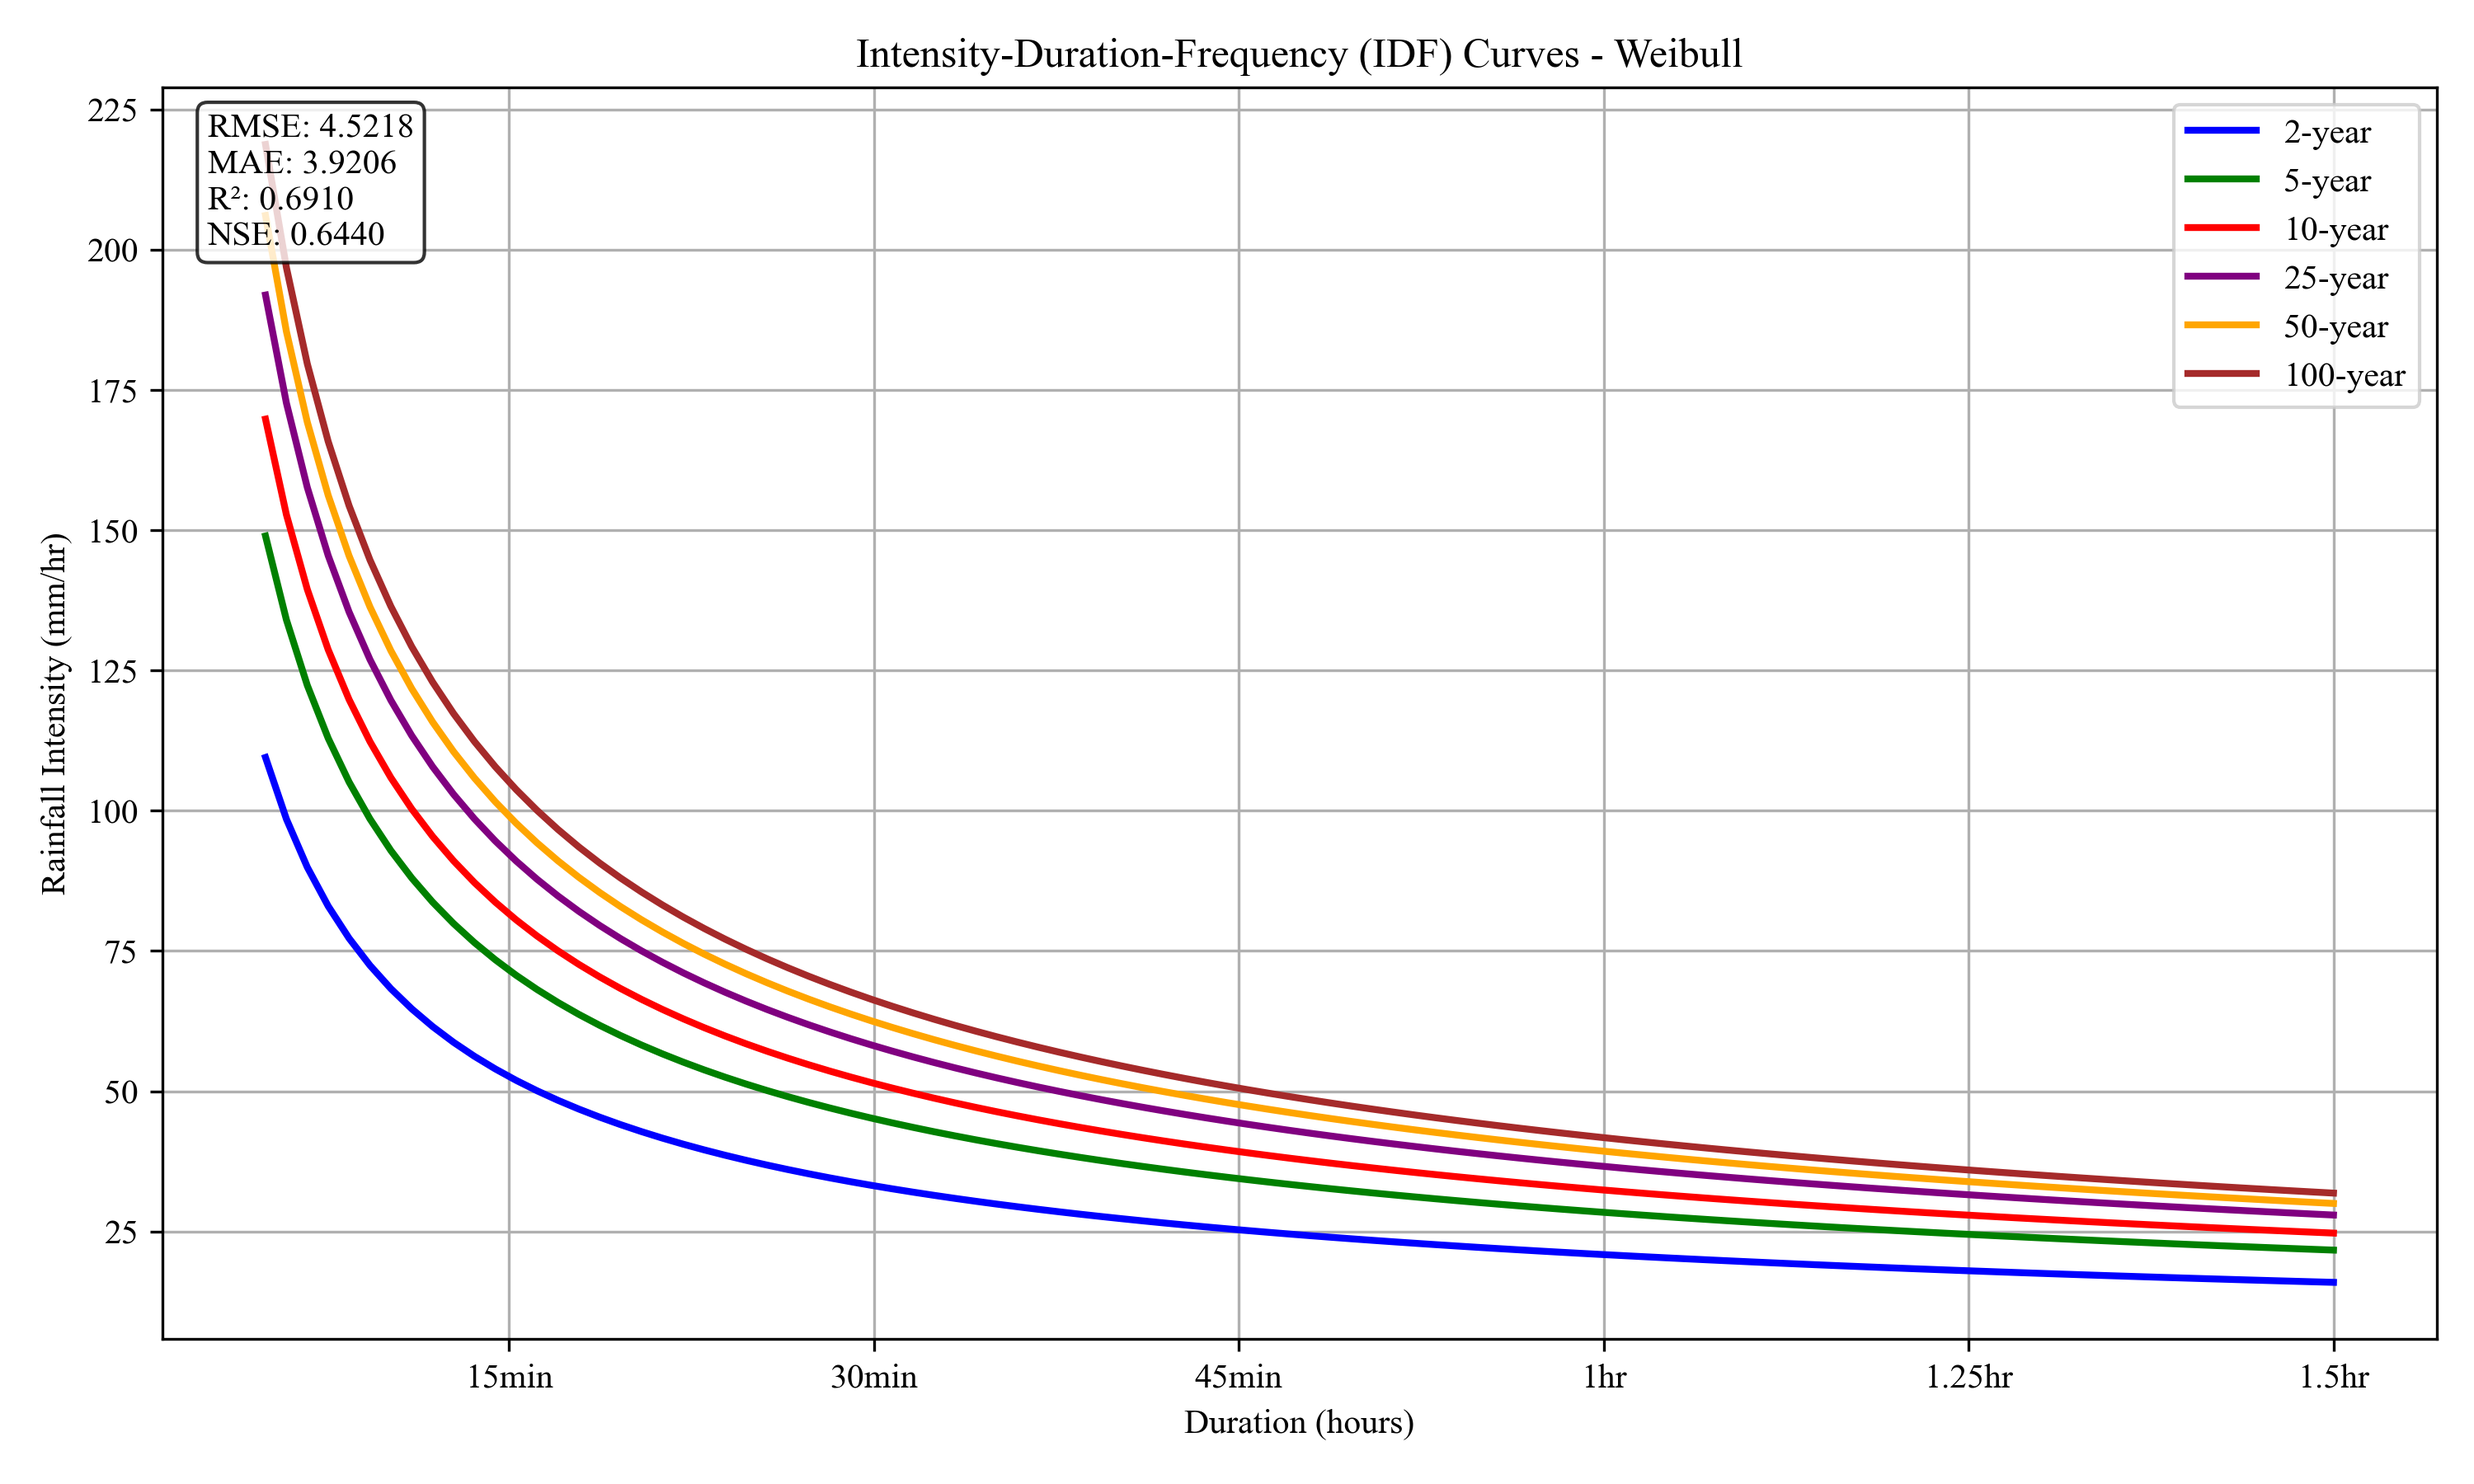
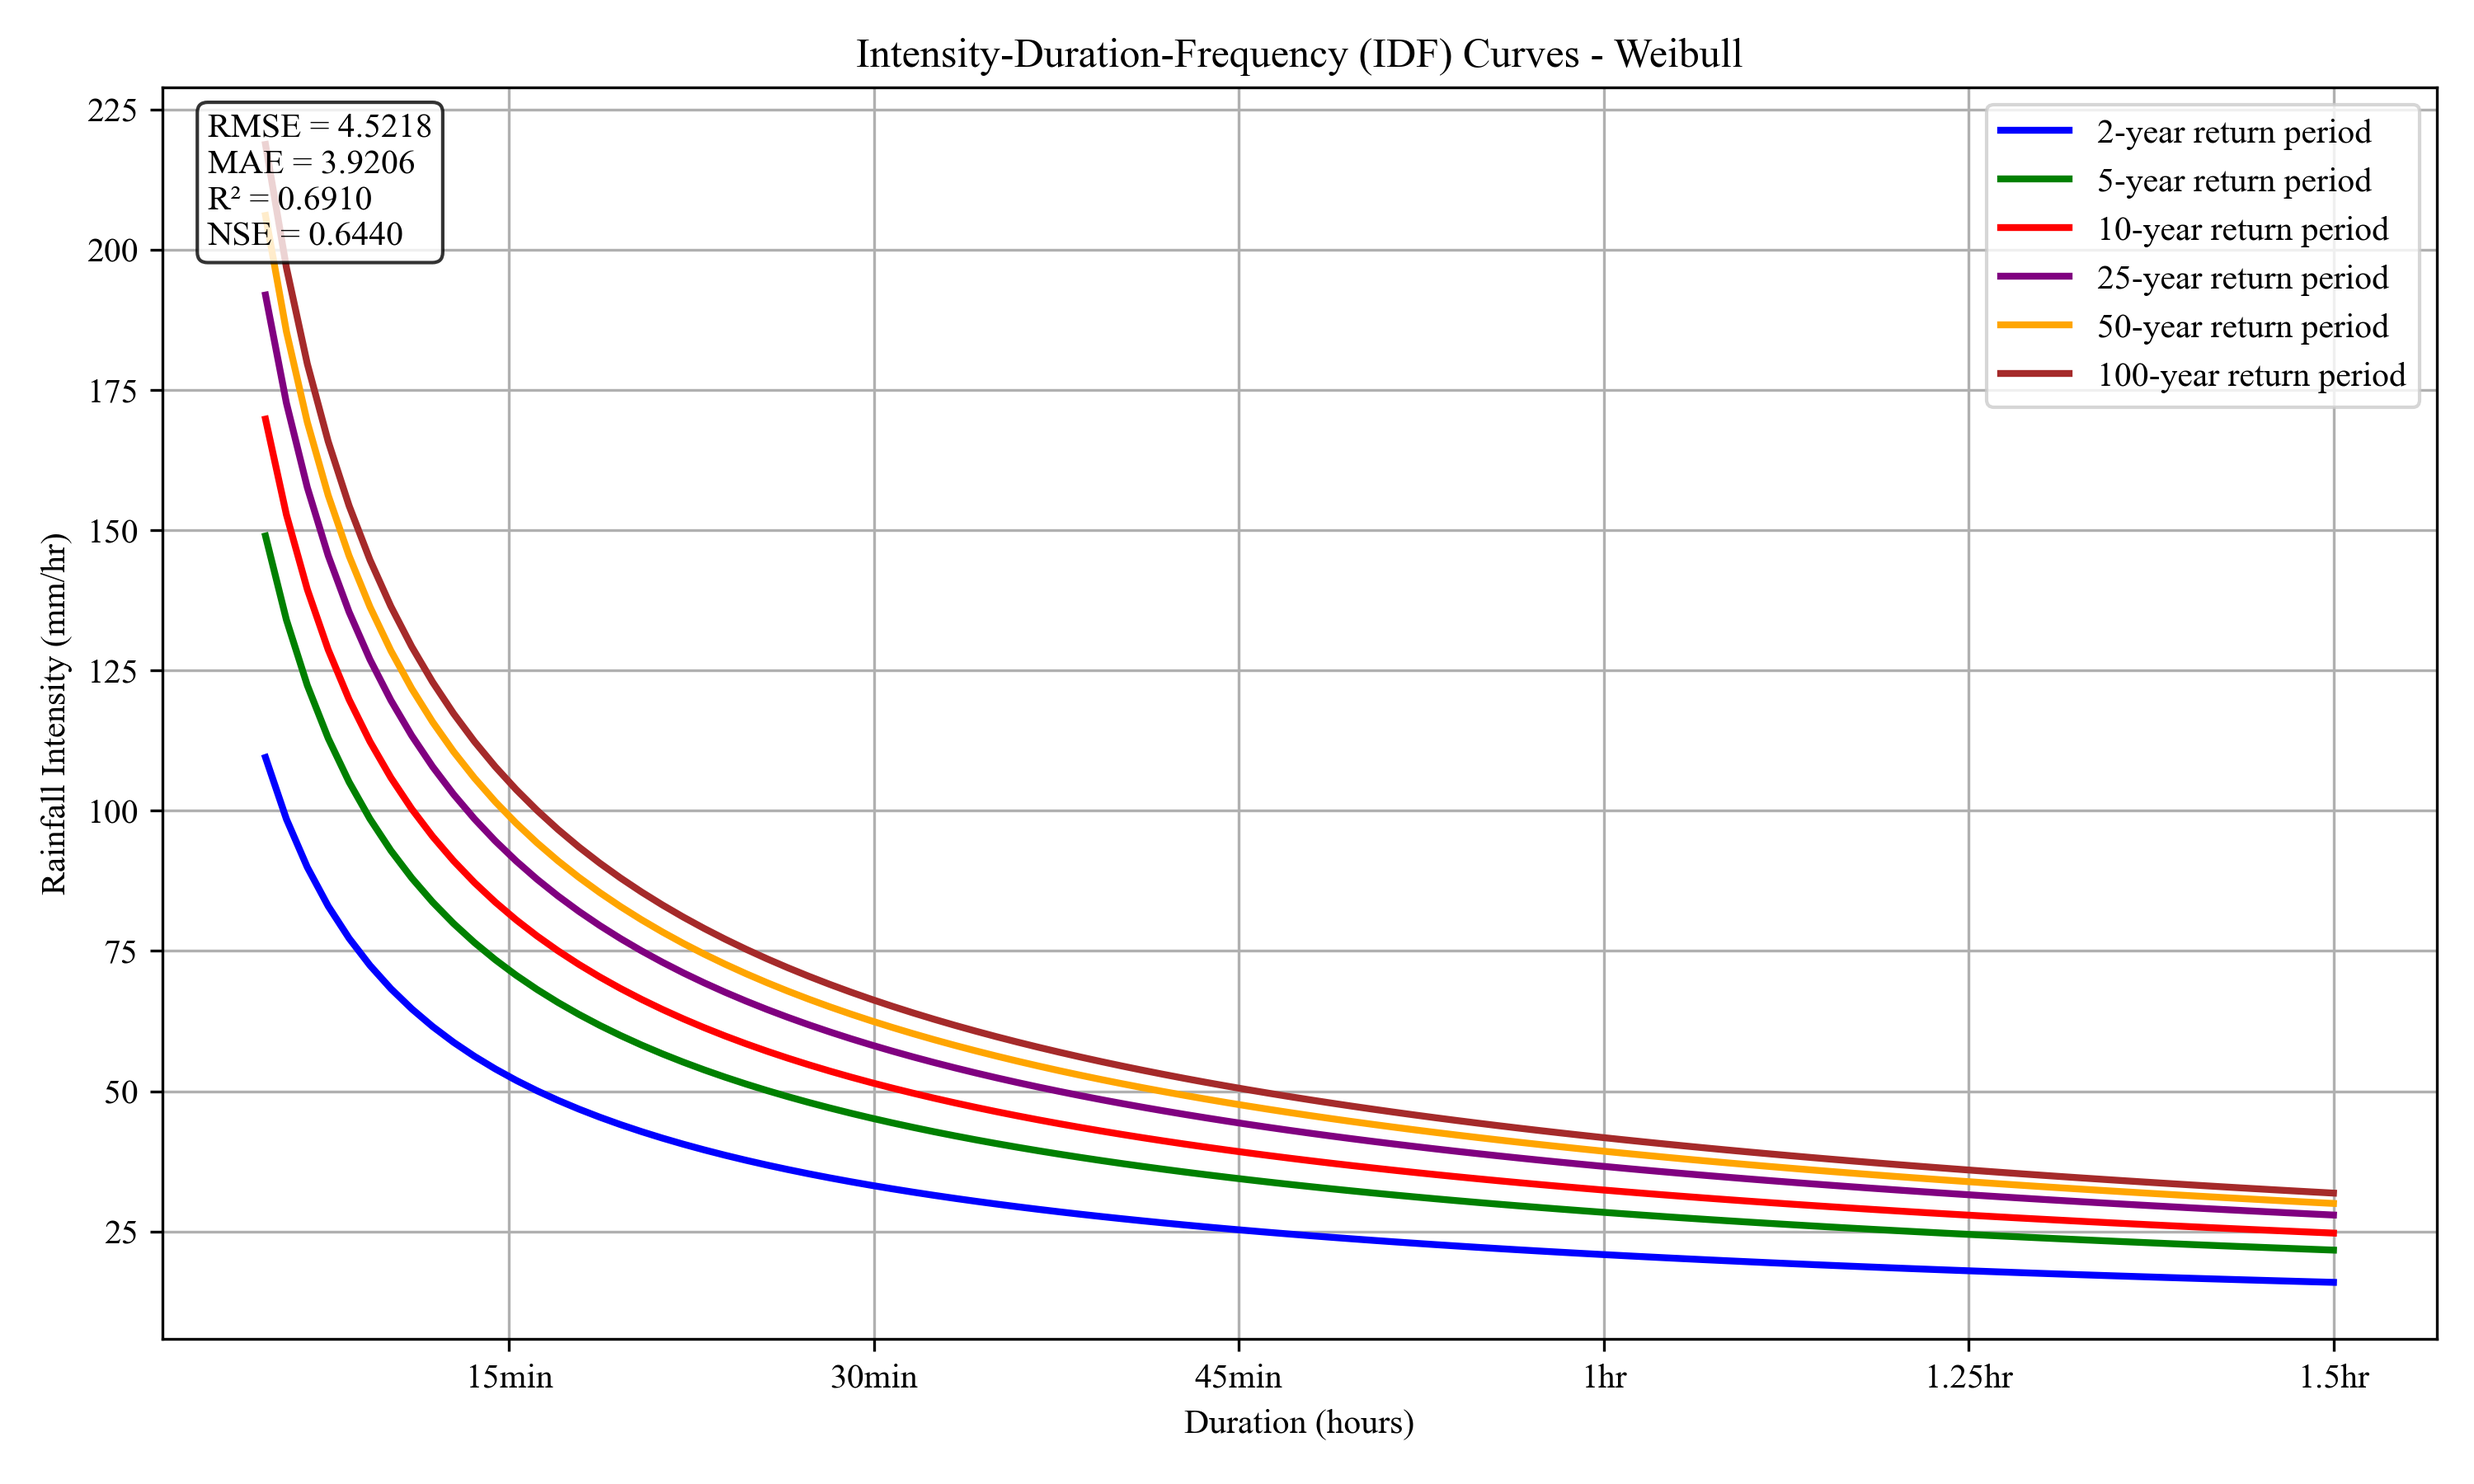
Update IDF curve titles and metrics formatting for clarity in plots

Changed region(s): [[0.806, 0.0622, 0.961, 0.28], [0.093, 0.0622, 0.186, 0.1867]]

diff --git a/statistical-methods/shared_postprocessing.py b/statistical-methods/shared_postprocessing.py
@@ -96,7 +96,7 @@ def _format_idf_plot(title, metrics=None):
 
     # Add metrics overlay if provided
     if metrics is not None:
-        metrics_text = f"RMSE: {metrics['RMSE']:.4f}\nMAE: {metrics['MAE']:.4f}\nR²: {metrics['R2']:.4f}\nNSE: {metrics['NSE']:.4f}"
+        metrics_text = f"RMSE = {metrics['RMSE']:.4f}\nMAE = {metrics['MAE']:.4f}\nR² = {metrics['R2']:.4f}\nNSE = {metrics['NSE']:.4f}"
         plt.text(
             0.02,
             0.98,
@@ -155,7 +155,7 @@ def create_idf_plot(
         log_y_fine = intercept + slope * log_x_fine
         y_fine = np.exp(log_y_fine)
 
-        plt.plot(x_fine, y_fine, label=f"{rp}-year", color=colors[i], linewidth=2)
+        plt.plot(x_fine, y_fine, label=f"{rp}-year return period", color=colors[i], linewidth=2)
 
         if show_power_law_params:
             c = np.exp(intercept)

diff --git a/statistical-methods/gumbel.py b/statistical-methods/gumbel.py
@@ -319,7 +319,7 @@ def main():
         return_periods,
         duration_hours,
         colors,
-        "Intensity-Duration-Frequency (IDF) Curves",
+        "Intensity-Duration-Frequency (IDF) Curves using the Statistical Method",
         "idf_curves_trad.png",
         avg_metrics,
         show_power_law_params=True,
